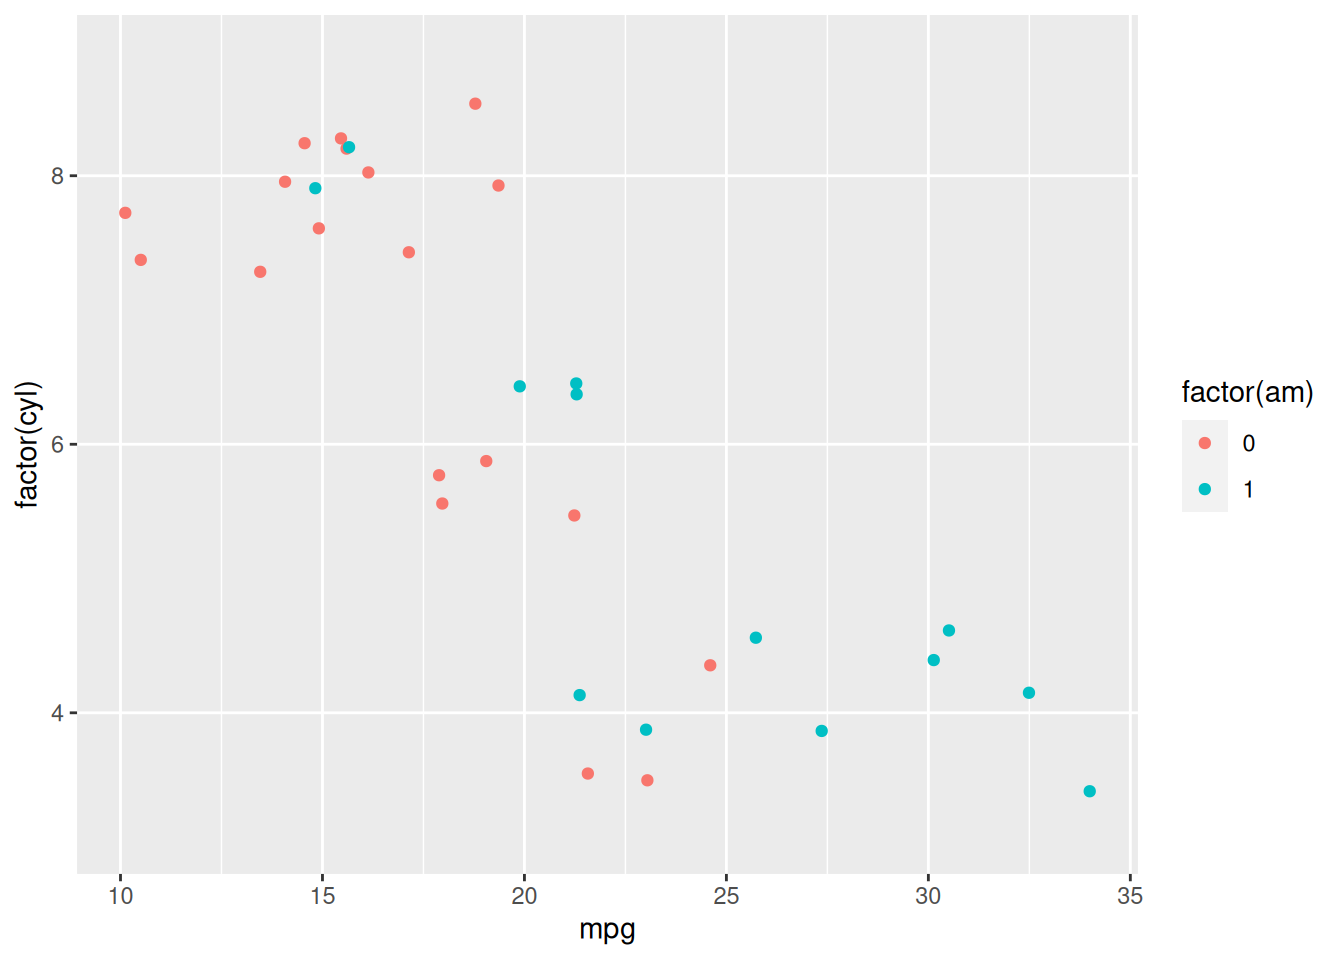
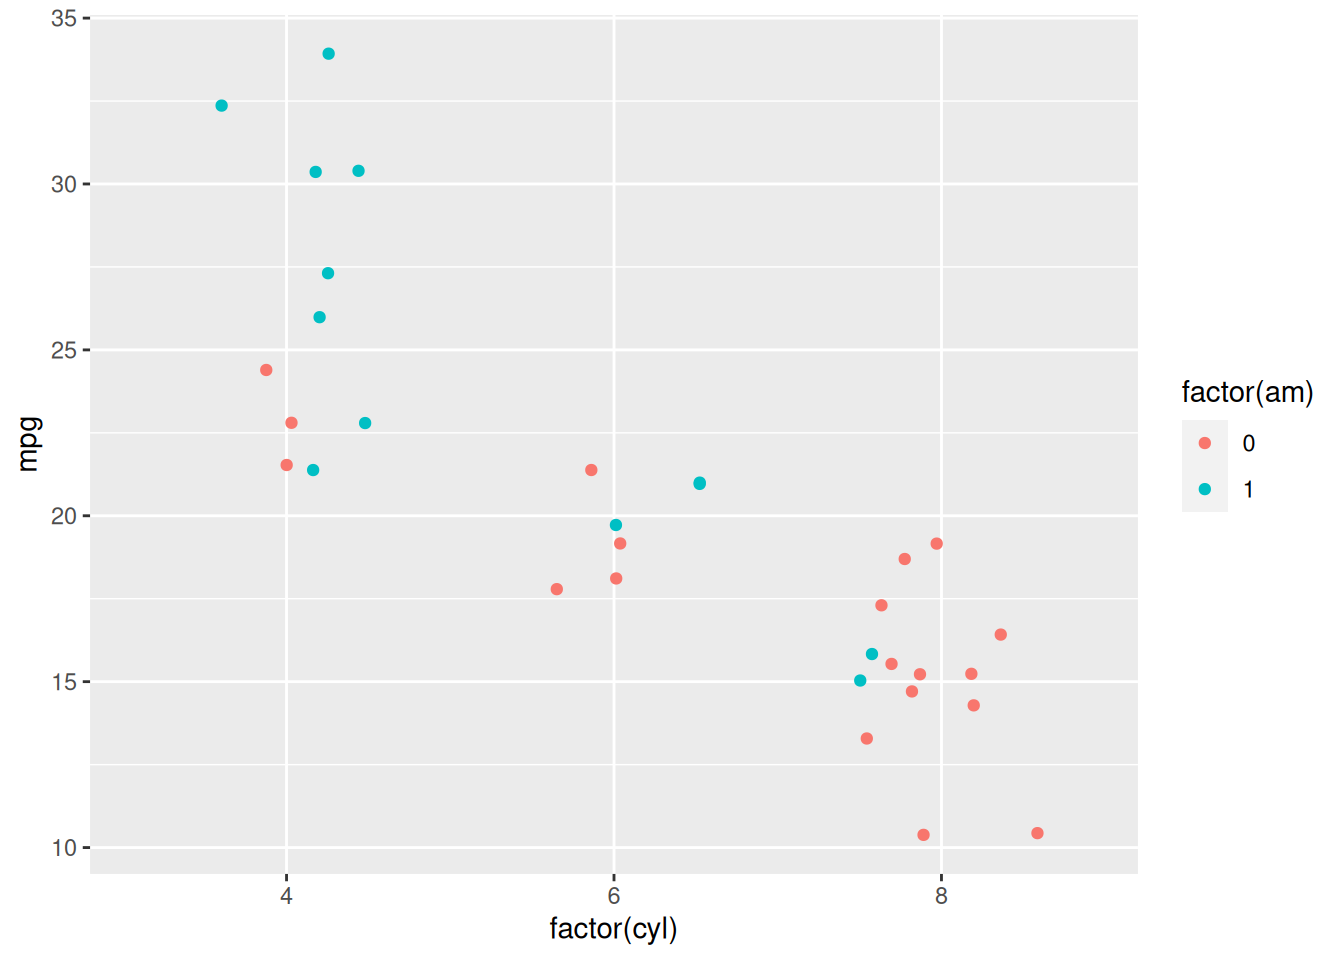
Ejes invertidos corregidos

diff --git a/docs/DC_view2.html b/docs/DC_view2.html
@@ -244,7 +244,7 @@ code span.wa { color: #60a0b0; font-weight: bold; font-style: italic; } /* Warni
 <p>Veamos un ejemplo de este problema echando mano del set de datos <code>mtcars</code>, donde tenemos las variables <code>am</code> y <code>cyl</code>, las cuales convertimos en factores para volverlas categóricas.</p>
 <div class="cell">
 <div class="sourceCode cell-code" id="cb3"><pre class="sourceCode r code-with-copy"><code class="sourceCode r"><span id="cb3-1"><a href="#cb3-1" aria-hidden="true" tabindex="-1"></a>plot_mpg_vs_fcyl_by_fam <span class="ot">&lt;-</span> <span class="fu">ggplot</span>(</span>
-<span id="cb3-2"><a href="#cb3-2" aria-hidden="true" tabindex="-1"></a>  <span class="at">data =</span> mtcars, <span class="at">mapping =</span> <span class="fu">aes</span>(<span class="at">x =</span> mpg, <span class="at">y =</span> <span class="fu">factor</span>(cyl), <span class="at">color =</span> <span class="fu">factor</span>(am))</span>
+<span id="cb3-2"><a href="#cb3-2" aria-hidden="true" tabindex="-1"></a>  <span class="at">data =</span> mtcars, <span class="at">mapping =</span> <span class="fu">aes</span>(<span class="at">x =</span> <span class="fu">factor</span>(cyl), <span class="at">y =</span> mpg, <span class="at">color =</span> <span class="fu">factor</span>(am))</span>
 <span id="cb3-3"><a href="#cb3-3" aria-hidden="true" tabindex="-1"></a>)</span>
 <span id="cb3-4"><a href="#cb3-4" aria-hidden="true" tabindex="-1"></a></span>
 <span id="cb3-5"><a href="#cb3-5" aria-hidden="true" tabindex="-1"></a>plot_mpg_vs_fcyl_by_fam <span class="sc">+</span> <span class="fu">geom_point</span>()</span></code><button title="Copy to Clipboard" class="code-copy-button"><i class="bi"></i></button></pre></div>
